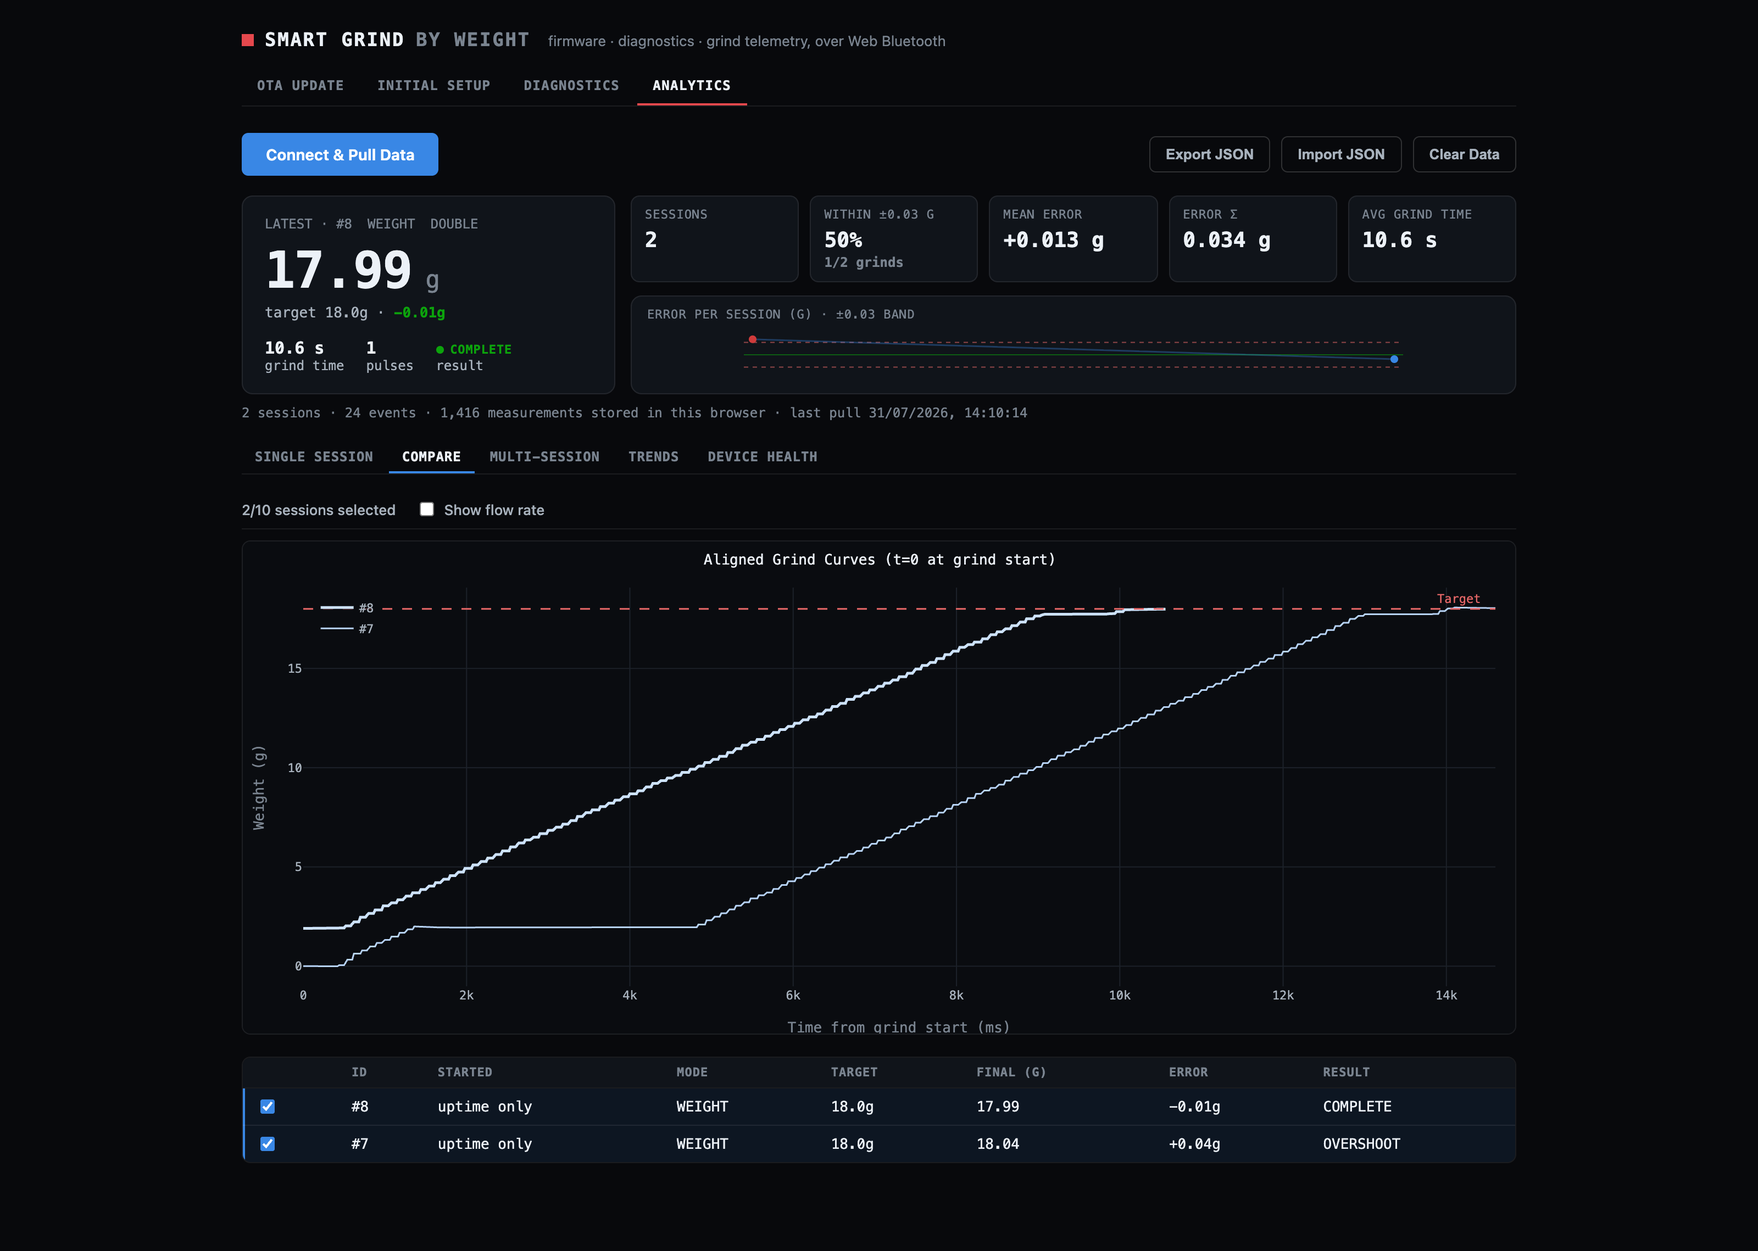
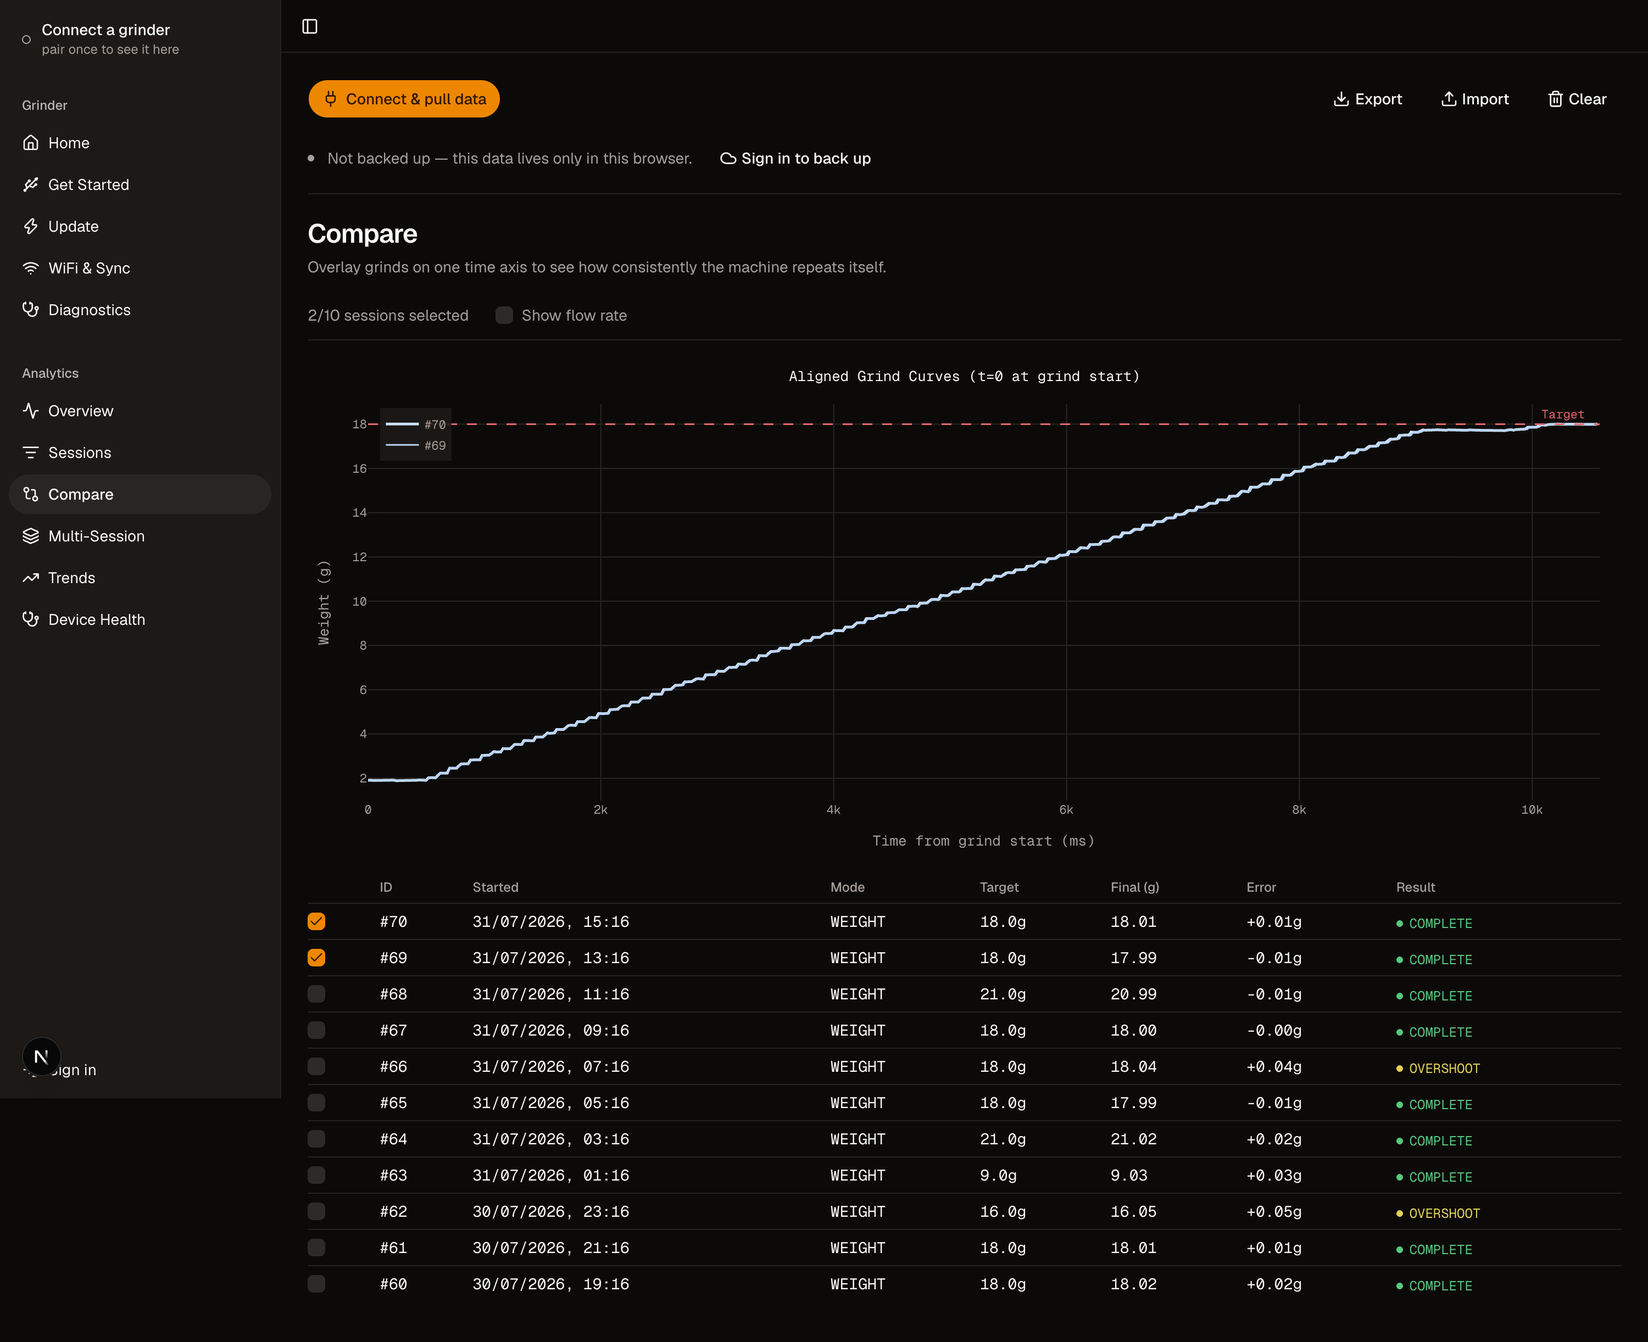
docs(web): document the redesigned app and refresh the dashboard screenshots
Rewrites the CLAUDE.md web section, which still described the masthead, the
two-tab nav and the device status strip — none of which exist. Records what a
future change actually needs to know: the preset and which parts of it were
deviated from, the routes, where analytics state lives, the design language,
and that the chart palette must be re-validated under --pairs all rather than
adjacent pairs, since adjacent-only checking is what hid the detection/weight
collision in the first place.

Regenerates media/analytics*.png from the real grind database. Also fixes the
fixture generator to number synthetic sessions contiguously with the real ones
so the session-id axes read as one run instead of two clusters with a gap.

diff --git a/CLAUDE.md b/CLAUDE.md
@@ -30,9 +30,17 @@ python3 tools/grinder.py analyze
 
 **BLE availability:** Bluetooth is on by default and stays on — there is no inactivity auto-disable, so clients can connect at any time. The BLE stack is initialized once and never deinitialized (Bluedroid rebuilds an empty GATT table on re-init while the Arduino wrapper keeps serving its stale objects), so `enable()`/`disable()` only start and stop advertising; "off" means "not advertising". The `bluetooth` NVS namespace holds `startup` (auto-enable at boot, default true); the menu's *Enabled* toggle is not persisted, so it turns the radio off only until the next reboot. Advertising is left at the wrapper's ~20–40 ms default — do not slow it down. Slowing it to 500 ms–1 s to cut radio duty was tried and made the grinder unreliable to find and connect to: at a realistic −75 dBm it is the fast rate's repetition that carries discovery and the CONNECT_IND exchange through packet loss, and load-cell noise measures identical either way, so there is nothing to buy. Note the surface is unauthenticated — no pairing/bonding and no OTA image signature check — which is accepted under the same home-appliance threat model as the plaintext WiFi credentials.
 
-**Web App (`tools/web-server`):** One Next.js app (strict TypeScript, Biome, pnpm; scaffolded with `create-next-app@canary`) serves everything web: the flasher UI, the analytics dashboard, user accounts, the cloud sync API, and a firmware release proxy. Main routes: **/** (My Grinder — device panels: Get Started/USB install via esp-web-tools, Update/OTA, WiFi & Sync, Diagnostics — new visitors land on Get Started, returning ones on Update via a `grinderSeen` localStorage flag), **/analytics**, plus **/signin** and **/account** (Better Auth; masthead account slot in `components/account-menu.tsx` — see the Cloud Sync section for the auth model). Above the tabs sits a one-line device strip (`components/device-strip.tsx`) — a pairing prompt for new visitors, cached device snapshot (version, sessions on device, WiFi + backup state, update-available chip) for known ones; red is reserved for flash CTAs, the strip's Connect is accent blue. All BLE flows share one GATT connection via the `lib/client/ble.ts` singleton (chooser once, 30 s idle auto-release, clock sync + snapshot reads on every connect, silent background refresh on Chrome 117+ via `getDevices()`; known grinders persist in `grinderRegistry` localStorage keyed by device id; React consumes it through `useSyncExternalStore` in `lib/client/use-grinder.ts`). Operations that outlast the idle window — firmware upload, grind-data export, the diagnostics stream — must claim the link with the nesting `hold()`/`releaseHold()` lease (always paired in a `finally`); while any holder is active `release()` is a no-op, so a concurrent flow (typically the device strip's background snapshot refresh) can't arm the idle timer and disconnect mid-transfer. The **/analytics** page pulls grind data + a device health snapshot over Web Bluetooth (or syncs from the cloud store) and renders the full analysis dashboard (single-session, session-overlay compare, multi-session, long-term trends with a burr-wear odometer from lifetime stats, device health; Plotly via `plotly.js-dist-min`, pure figure builders in `lib/analytics/figures.ts`). The binary parser (`lib/parser.ts`) is shared by the browser dashboard AND the server's ingest validation — one TS parser; any `grind_logging.h` struct change must update it alongside the Python parser (see `tools/ble/CLAUDE.md`). Grind data chunks are delivered as acknowledged BLE indications; the firmware retries unconfirmed chunks rather than dropping them. Firmware releases are listed and streamed same-origin through `/api/firmware[/tag/asset]` (GitHub releases API + asset proxy) — there is no GitHub Pages deployment and no CI asset copying; the app deploys to Vercel or self-hosts via `docker compose up`.
+**Web App (`tools/web-server`):** One Next.js app (strict TypeScript, Biome, pnpm; scaffolded with `create-next-app@canary`) serves everything web: the device UI, the analytics dashboard, user accounts, the cloud sync API, and a firmware release proxy. The UI is built on **Tailwind v4 + shadcn** with the `base-luma` preset (Base UI primitives — not Radix — stone neutrals, amber primary, Geist/Geist Mono, lucide); `components.json` records it, and `components/ui/*` is generated code that is formatted to house style and edited freely. Dark-only for now: `.dark` sits on `<html>` and the preset's light block is kept unused so a toggle is additive. Three tokens the preset lacks are added in `globals.css` — `--success`/`--caution`/`--serious`, on hues clear of the 45–70 amber band `--primary` owns (`critical` is `--destructive`). Dark `--primary` is deliberately lifted from the preset's value, which reads brown rather than amber on the warm near-black.
 
-**Cloud Sync (docs/CLOUD_SYNC.md):** Grind sessions upload to a cloud store — hosted (Vercel) or self-hosted (`tools/web-server`, `docker compose up`: Next.js app + Postgres via Drizzle). The device holds `{server_url, store_id, upload_key, view_key}` in the `cloudsync` NVS namespace, provisioned over BLE from the web app's **WiFi & Sync** panel (`BLE_SYSINFO_CLOUD_CONFIG_CHAR_UUID`, write-only, same deferred-write pattern as WiFi; JSON readback on `BLE_SYSINFO_CLOUD_STATUS_CHAR_UUID` deliberately hands out `store_id`+`view_key` — read-only claim-by-possession — but never the upload key). Off until provisioned. `CloudSync` (`src/system/cloud_sync.*`) is the second `WifiService` consumer: after SNTP the still-open window enters an `UPLOADING` state that runs one blocking HTTP op per loop pass (grind/OTA/export gating re-checked between ops) — manifest handshake (one `(session_id, timestamp, size, checksum)` tuple per file on flash; server replies with what it lacks), one verbatim-bytes POST per wanted session, then a compact health snapshot. Zero sync state on the device; a wiped server just asks for everything again. New sessions bring a window forward after a 15 s settle. HTTPS validates via the ESP-IDF CA bundle; plain http works for LAN self-hosts. Session headers now carry a real zlib CRC-32 (legacy files have 0; the server verifies when nonzero). Server-side: raw blob is truth (Postgres `bytea`), an 80-byte summary parsed at ingest is the query index, dedup on `(store_id, sha256)` — so a factory-reset device's reborn session ids coexist and re-uploads are dropped silently. **Stores belong to user accounts** (Better Auth in `tools/web-server/lib/auth-server.ts`: email/password always, passkeys on top, GitHub button when `GITHUB_CLIENT_ID/SECRET` are set; `BETTER_AUTH_SECRET` required in production, no password reset by design — no mail service). Browser store management (create/rename/delete/provision/rotate) is owner-session-only; `authStore` tries the owner's cookie before bearer keys, so the device's key-authed ingest is untouched. Two keys, one job each: `upload_key` is the device credential, stored hashed and **rotated on every provision** (`POST /api/stores/[id]/provision` — any signed-in owner browser can provision; a DB dump leaks no write credential); `view_key` is the semi-public read credential (stored plaintext) behind share links and BLE claims. Per-account store cap (`SYNC_STORES_PER_USER`) replaced the per-IP limit and provisional-store GC; 10k-session quota rotates oldest (off in self-host). The Analytics tab resolves its cloud source owned-stores-first (picker when an account owns several) then viewer link (records keyed by content hash in IndexedDB v2; BLE pulls retain raw bytes, auto-backfill into owned stores through the same idempotent ingest via the session cookie, and read-only dashboard links share via `#store=id:view_key`). Server ingest and the dashboard share `tools/web-server/lib/parser.ts` — one TS parser; the Python parser remains a separate consumer of `grind_logging.h`. Menu → Settings → Cloud Sync mirrors the WiFi page (toggle, status rows, Forget Sync). The server app is strict TypeScript linted by Biome; checks in `tools/web-server`: `pnpm test` (vitest + PGlite), `pnpm typecheck`, `pnpm lint`.
+**Shell and routes:** a sidebar (`components/app-sidebar.tsx`) whose header *is* the grinder — a workspace switcher carrying connection state, version, and Connect/Add/Refresh/Forget — with the account in the footer. There is no device status strip; each fact lives on the page that can act on it, and "update available" is a badge on the Update nav item. Every section is a real route: **/** (adaptive home — pairing path for new visitors, device status rows for owners), **/grinder/{get-started,update,wifi,diagnostics}**, **/analytics** (overview), **/analytics/sessions** (TanStack data table: sort, faceted filters with counts, search, column visibility, pagination; selecting rows hands them to Compare via `?sessions=`), **/analytics/session/[sha]** (addressable by content hash, so a link to one grind survives re-pulls, cloud syncs and factory resets), **/analytics/{compare,multi,trends,health}**, plus **/signin** and **/account**. Analytics state lives in `components/analytics/analytics-provider.tsx`, mounted by the analytics layout, so moving between sections never re-reads IndexedDB or drops a sync in flight.
+
+**Design language:** Notion's manners in this palette — flat surfaces with hairline rules rather than cards-on-cards, restrained colour (amber for the one real action per screen), hover-revealed row actions, typography carrying the hierarchy. Numbers and identifiers are Geist Mono with `tabular-nums`; labels are sans and muted. Fully responsive: the sidebar collapses to a sheet and the session table becomes one card per grind under 640px. Long device operations (OTA, BLE pull, cloud sync) keep a persistent inline `StatusRegion` — never a toast — while short acknowledgements use sonner. There are no native `alert`/`confirm`/`prompt` calls: `ConfirmDialog` and `RenameDialog` replace them.
+
+**BLE and data:** all BLE flows share one GATT connection via the `lib/client/ble.ts` singleton (chooser once, 30 s idle auto-release, clock sync + snapshot reads on every connect, silent background refresh on Chrome 117+ via `getDevices()`; known grinders persist in `grinderRegistry` localStorage keyed by device id; React consumes it through `useSyncExternalStore` in `lib/client/use-grinder.ts`). Operations that outlast the idle window — firmware upload, grind-data export, the diagnostics stream — must claim the link with the nesting `hold()`/`releaseHold()` lease (always paired in a `finally`); while any holder is active `release()` is a no-op, so a concurrent flow can't arm the idle timer and disconnect mid-transfer. The binary parser (`lib/parser.ts`) is shared by the browser dashboard AND the server's ingest validation — one TS parser; any `grind_logging.h` struct change must update it alongside the Python parser (see `tools/ble/CLAUDE.md`). Grind data chunks are delivered as acknowledged BLE indications; the firmware retries unconfirmed chunks rather than dropping them.
+
+**Charts:** Plotly via `plotly.js-dist-min`, pure figure builders in `lib/analytics/figures.ts`, rendered flat — `paper_bgcolor` matches the page, so charts read as document content rather than embedded widgets. Series colours are *semantic* (weight/flow/target/detection), not categorical, so they stay distinct hues rather than folding into the preset's monochrome `--chart-*` ramp. The palette is validated with the dataviz skill's validator against the surface **under `--pairs all`, not adjacent pairs** — adjacent-only checking previously hid a real defect where the detection violet sat below the normal-vision floor against the weight blue. Re-run it after any series colour change. Firmware releases are listed and streamed same-origin through `/api/firmware[/tag/asset]` (GitHub releases API + asset proxy) — there is no GitHub Pages deployment and no CI asset copying; the app deploys to Vercel or self-hosts via `docker compose up`.
+
+**Cloud Sync (docs/CLOUD_SYNC.md):** Grind sessions upload to a cloud store — hosted (Vercel) or self-hosted (`tools/web-server`, `docker compose up`: Next.js app + Postgres via Drizzle). The device holds `{server_url, store_id, upload_key, view_key}` in the `cloudsync` NVS namespace, provisioned over BLE from the web app's **WiFi & Sync** panel (`BLE_SYSINFO_CLOUD_CONFIG_CHAR_UUID`, write-only, same deferred-write pattern as WiFi; JSON readback on `BLE_SYSINFO_CLOUD_STATUS_CHAR_UUID` deliberately hands out `store_id`+`view_key` — read-only claim-by-possession — but never the upload key). Off until provisioned. `CloudSync` (`src/system/cloud_sync.*`) is the second `WifiService` consumer: after SNTP the still-open window enters an `UPLOADING` state that runs one blocking HTTP op per loop pass (grind/OTA/export gating re-checked between ops) — manifest handshake (one `(session_id, timestamp, size, checksum)` tuple per file on flash; server replies with what it lacks), one verbatim-bytes POST per wanted session, then a compact health snapshot. Zero sync state on the device; a wiped server just asks for everything again. New sessions bring a window forward after a 15 s settle. HTTPS validates via the ESP-IDF CA bundle; plain http works for LAN self-hosts. Session headers now carry a real zlib CRC-32 (legacy files have 0; the server verifies when nonzero). Server-side: raw blob is truth (Postgres `bytea`), an 80-byte summary parsed at ingest is the query index, dedup on `(store_id, sha256)` — so a factory-reset device's reborn session ids coexist and re-uploads are dropped silently. **Stores belong to user accounts** (Better Auth in `tools/web-server/lib/auth-server.ts`: email/password always, passkeys on top, GitHub button when `GITHUB_CLIENT_ID/SECRET` are set; `BETTER_AUTH_SECRET` required in production, no password reset by design — no mail service). Browser store management (create/rename/delete/provision/rotate) is owner-session-only; `authStore` tries the owner's cookie before bearer keys, so the device's key-authed ingest is untouched. Two keys, one job each: `upload_key` is the device credential, stored hashed and **rotated on every provision** (`POST /api/stores/[id]/provision` — any signed-in owner browser can provision; a DB dump leaks no write credential); `view_key` is the semi-public read credential (stored plaintext) behind share links and BLE claims. Per-account store cap (`SYNC_STORES_PER_USER`) replaced the per-IP limit and provisional-store GC; 10k-session quota rotates oldest (off in self-host). Analytics resolves its cloud source owned-stores-first (picker when an account owns several) then viewer link (records keyed by content hash in IndexedDB v2; BLE pulls retain raw bytes, auto-backfill into owned stores through the same idempotent ingest via the session cookie, and read-only dashboard links share via `#store=id:view_key`). Server ingest and the dashboard share `tools/web-server/lib/parser.ts` — one TS parser; the Python parser remains a separate consumer of `grind_logging.h`. Menu → Settings → Cloud Sync mirrors the WiFi page (toggle, status rows, Forget Sync). The server app is strict TypeScript linted by Biome; checks in `tools/web-server`: `pnpm test` (vitest + PGlite), `pnpm typecheck`, `pnpm lint`.
 
 **Grind Data Capture:** Session logging defaults to ON (`logging/enabled` preference, toggle under Menu → Logs & Data); cancelled grinds are never saved. Session retention is space-based: files accumulate on the 3 MB LittleFS partition until free space drops below a 256 KB reserve (then oldest are purged; hard cap 250 files, roughly 100+ sessions in practice). The dashboard and Python tool warn when logging is off.
 

diff --git a/docs/CLOUD_SYNC.md b/docs/CLOUD_SYNC.md
@@ -70,7 +70,7 @@ agreed design; each decision was made deliberately — change them knowingly.
   backoff. No new retry machinery.
 - **Failure is silent and normal.** Self-hosted servers go down; no UI errors, nothing
   blocks. Status surfaces passively: Menu → Settings → Cloud Sync (last result/time,
-  pending count) and a sync chip on the flasher device strip.
+  pending count) and the backup row on the web app's home page.
 - **Transport: HTTPS to a real domain.** `esp_http_client` + ESP-IDF CA bundle validates
   Let's Encrypt/Vercel certs out of the box — no pinning, no cert provisioning. TLS RAM
   (~40 KB) is paid only inside windows, which never overlap grinds.
@@ -115,7 +115,8 @@ agreed design; each decision was made deliberately — change them knowingly.
   same-origin: Better Auth checks origins on its own endpoints; custom session
   mutations go through `assertSameOrigin` on top of SameSite=Lax cookies.
 - **Lifecycle.** Store delete (cascade: blobs, summaries, snapshots, store) and
-  `view_key` rotation are owner-session actions (Account page + WiFi & Sync). After a
+  `view_key` rotation are owner-session actions (Account page, WiFi & Sync, and
+  Revoke shared links in the analytics cloud bar). After a
   view-key rotation, re-provision the device so future BLE claims hand out the fresh
   key. `upload_key` leak recovery = just provision again (rotation is the mechanism).
 
@@ -135,7 +136,7 @@ agreed design; each decision was made deliberately — change them knowingly.
   (env-gated), email/password and passkey one-tap; `/account` manages sign-in methods,
   passkeys, the account's stores (rename / share link / delete) and account deletion
   (typed confirmation, cascades stores).
-- **Flasher:** WiFi tab is **WiFi & Sync** — one flow provisions both (the coupling is
+- **Web app:** the WiFi page is **WiFi & Sync** — one flow provisions both (the coupling is
   real: sync needs WiFi). Requires sign-in; it reuses the device's store when the
   account owns it (rotating the upload key) or creates a fresh one, then writes the
   credentials over BLE in the same session. Forget Sync offers server-side deletion

diff --git a/tools/web-server/README.md b/tools/web-server/README.md
@@ -3,12 +3,17 @@
 One Next.js app — strict TypeScript, Biome, pnpm — serving everything web for
 the grinder (design: `docs/CLOUD_SYNC.md`):
 
-1. **The device UI** (`/`) — Get Started (USB install via esp-web-tools),
-   Update (BLE OTA), WiFi & Sync provisioning, and Diagnostics, with the
-   shared device strip above every page.
+1. **The device UI** — an adaptive home (`/`) that shows the pairing path to
+   new visitors and the grinder's own status to owners, plus
+   `/grinder/{get-started,update,wifi,diagnostics}`: USB install via
+   esp-web-tools, BLE OTA, WiFi + cloud provisioning, and the diagnostic
+   report. The grinder itself is the sidebar's workspace switcher.
 2. **The analytics dashboard** (`/analytics`) — full grind analysis from a
-   BLE pull or the cloud store (single-session, compare, multi-session,
-   trends, device health), rendered with Plotly.
+   BLE pull or the cloud store, rendered with Plotly: an overview, a
+   filterable session table (`/analytics/sessions`), per-grind deep dives at
+   `/analytics/session/[sha]` (addressable by content hash, so a link to one
+   grind survives re-pulls and factory resets), plus compare, multi-session,
+   trends and device health.
 3. **Accounts** (`/signin`, `/account`) — Better Auth (email/password,
    passkeys, GitHub when configured). Cloud stores belong to accounts, so
    dashboards follow the user to any signed-in browser; read-only `#store=`
@@ -68,7 +73,7 @@ cd tools/web-server
 BETTER_AUTH_SECRET=$(openssl rand -hex 32) docker compose up -d
 ```
 
-Point the flasher's WiFi & Sync provisioning at `http://<host>:3000`. The
+Point the app's WiFi & Sync provisioning at `http://<host>:3000`. The
 compose file disables the per-store session quota (`SYNC_SESSION_QUOTA=0`).
 Put a reverse proxy (Caddy, Tailscale, nginx) in front for TLS if the server
 is reachable beyond your LAN — passkeys and Web Bluetooth both need a secure
